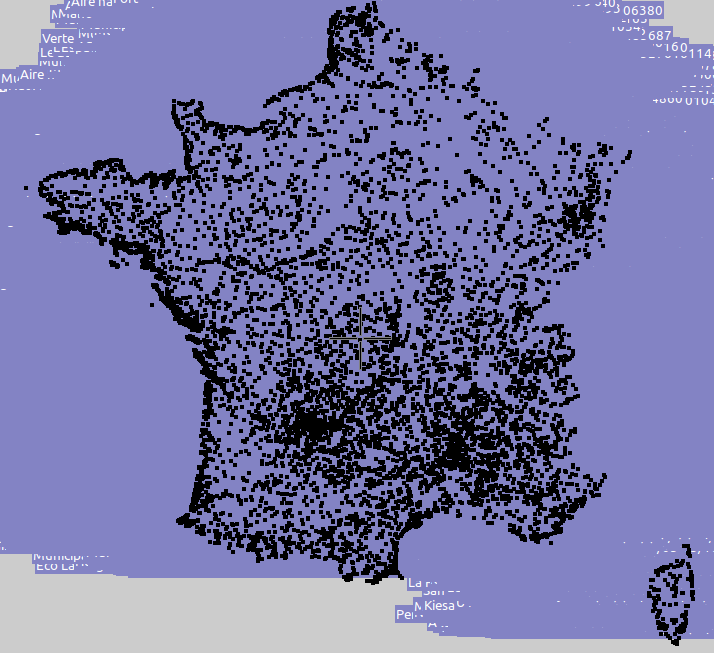
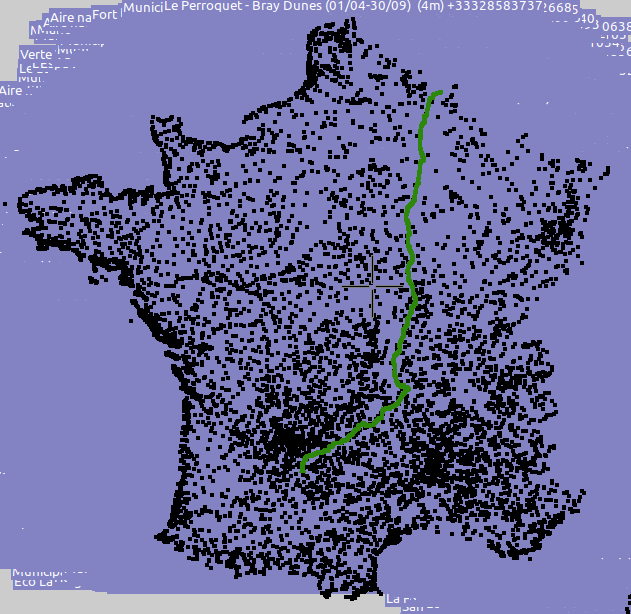
Complete readme a bit

diff --git a/camping_selector.py b/camping_selector.py
@@ -7,7 +7,7 @@ from geopy import Point
 
 def main():
     try:
-        waypoints_file = sys.argv[1]
+        waypoints_files = sys.argv[1]
     except (IndexError, IOError):
         print('Give a valid input waypoint file')
         exit(1)
@@ -30,16 +30,13 @@ def main():
         print('Give a valid output file')
         exit(1)
 
-    # parse routepoints per factor. By average, routepoints are about 40m apart.
+    # parse routepoints per factor. By average, routepoints are about 50m apart.
     # A factor of 10 will check per 400m for a campsite. The lower the factor, the slower the script.
     try:
         factor = int(sys.argv[5])
     except (IndexError, IOError):
         factor = 200
         
-    
-    factor
-
     # fetch campings
     tree = ET.parse(waypoints_file)
     root = tree.getroot()

diff --git a/README.md b/README.md
@@ -10,11 +10,11 @@ The problem is, in some countries, like France there are a lot of campings.
 
 | ![France drawn with campings](france.png)
 |:--:| 
-| *All the campings of France. Nice.* |
+| *All the campings of France and one route.* |
 
-Putting a file with all the 9000 campsites of France on a Garmin slows the device down, and more problematic my simple Garmin doesn't load more then 10.000 lines per GPX file. Most of the waypoints are of no use, because the route of my trip is more or less determined in advance.
+Putting a file with all the 9000 campsites of France on a Garmin slows the device down, and more problematic my simple Garmin doesn't load more then 10.000 lines per GPX file. Also, most of the waypoints are of no use.
 
-The solution? This script!
+The solution? This script which will allow to select only the waypoints near the route!
 
 ## Dependencies
 
@@ -28,11 +28,23 @@ In it's most simplest form, execute the script like this:
 python camping_selector.py camping_waypoints.gpx your_route.gpx 20 selection_of_campings.gpx
 ```
 
-- **camping_waypoints.gpx**: A file, with waypoints, probably with campsites
+- **camping_waypoints.gpx**: A file, with camping waypoints
 - **your_route.gpx**: The route you will be following during your travels
-- **20**: The number of kilometers around your route you want to look for 
+- **20**: The number of kilometers around your route where you want to look for campings.
 - **selection_of_campings.gpx**: A file with the waypoints 20km around your route. Note that your route is nót included in this file!
 
 | ![Campings near the route](route.png)
 |:--:| 
-| *All the campings near the route. Nice.* |
+| *Only the campings near the route.* |
+
+
+However, there are more possibilities
+
+```
+python camping_selector.py campings_france.gpx,campings_germany.gpx, your_route_part1.gpx,your_route_part2.gpx,your_route_part3.gpx 20 selection_of_campings.gpx 300
+```
+
+- **campings_france.gpx,campings_germany.gpx**: Files separated with a comma (without space), with camping waypoints
+- **your_route_part1.gpx,your_route_part2.gpx,your_route_part3.gpx**: The routes you will be following during your travels, separated with a comma without spaces
+- **20**: The number of kilometers around your route where you want to look for campings
+- **selection_of_campings.gpx**: A file with the waypoints 20km around your route. Note that your route is nót included in this file!
